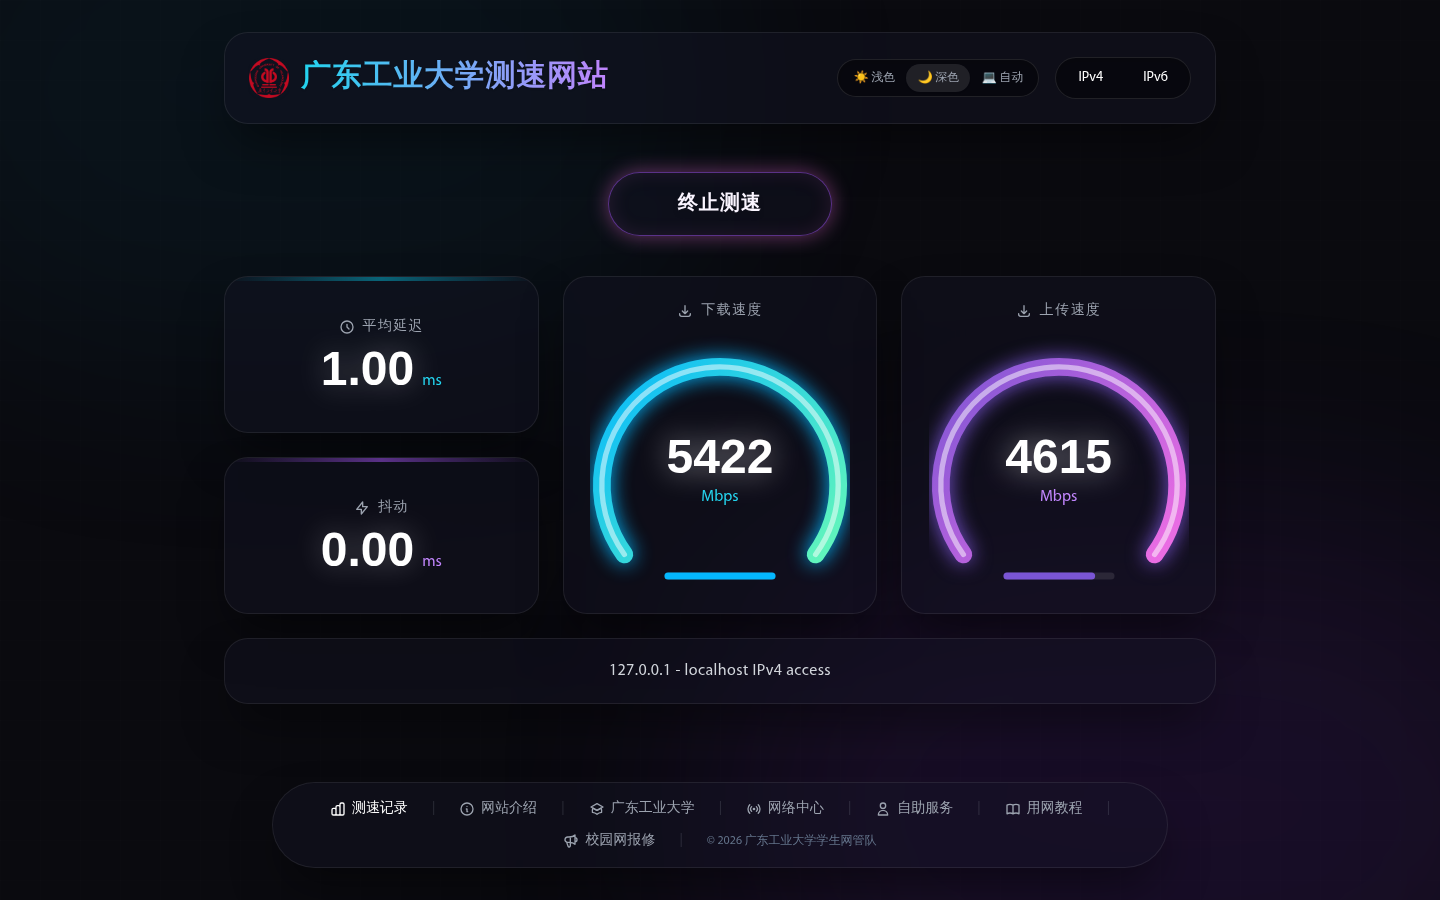
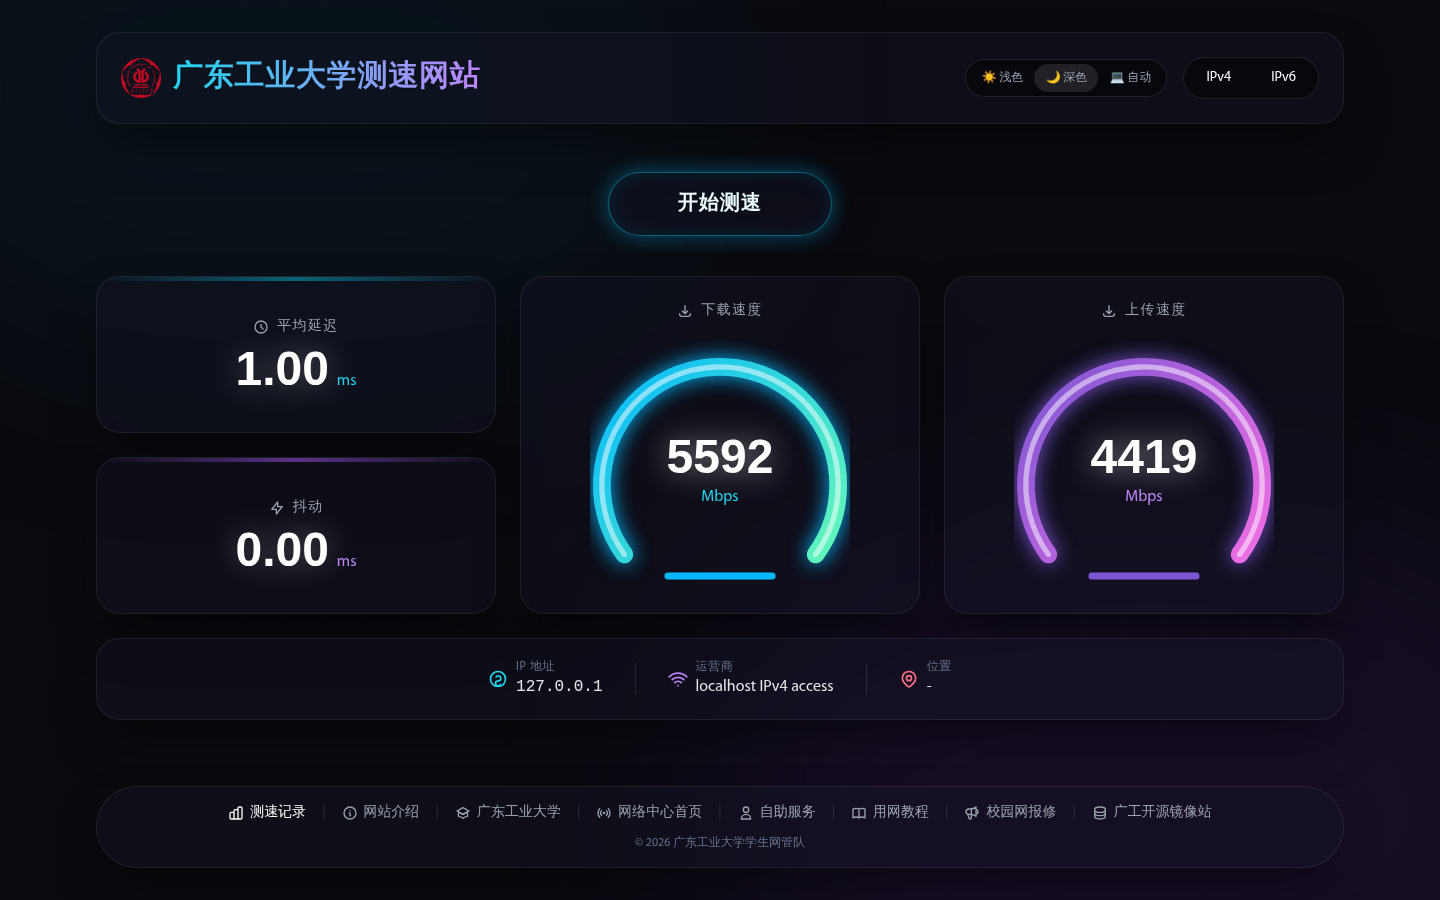
重做IP信息卡片：分段展示IP/运营商/位置
- 卡片从单行文本改为三段式布局：IP地址、运营商、位置
- 每段配SVG图标+标签+值，用竖线分隔
- 隐藏ip元素保留完整字符串供上报逻辑使用
- 更新暗色模式截图

diff --git a/index.html b/index.html
@@ -285,8 +285,31 @@
             </div>
 
             <!-- IP Info Island -->
-            <div class="md:col-span-12 glass-panel rounded-3xl p-5 flex justify-center items-center min-h-[60px]">
-                <span id="ip" class="text-slate-600 dark:text-gray-300 font-medium text-sm sm:text-base tracking-wide"></span>
+            <div class="md:col-span-12 glass-panel rounded-3xl p-5 flex flex-wrap justify-center items-center gap-x-8 gap-y-3 min-h-[60px]">
+                <span id="ip" class="hidden"></span>
+                <div class="flex items-center gap-2">
+                    <svg class="w-5 h-5 text-cyan-500 dark:text-cyan-400" fill="none" stroke="currentColor" viewBox="0 0 24 24"><path stroke-linecap="round" stroke-linejoin="round" stroke-width="2" d="M21 12a9 9 0 11-18 0 9 9 0 0118 0z"></path><path stroke-linecap="round" stroke-linejoin="round" stroke-width="2" d="M9.75 9.75a3 3 0 015.5 2.25c0 1.5-1.5 2.25-3 2.25s-3 .75-3 2.25a3 3 0 005.5 2.25"></path></svg>
+                    <div class="flex flex-col">
+                        <span class="text-xs text-slate-400 dark:text-slate-500 uppercase tracking-wider">IP 地址</span>
+                        <span id="ipAddr" class="text-slate-700 dark:text-gray-200 font-medium text-sm sm:text-base font-mono">-</span>
+                    </div>
+                </div>
+                <div class="hidden sm:block w-px h-8 bg-slate-200 dark:bg-white/10"></div>
+                <div class="flex items-center gap-2">
+                    <svg class="w-5 h-5 text-purple-500 dark:text-purple-400" fill="none" stroke="currentColor" viewBox="0 0 24 24"><path stroke-linecap="round" stroke-linejoin="round" stroke-width="2" d="M8.111 16.404a5.5 5.5 0 017.778 0M12 20h.01m-7.08-7.071c3.904-3.905 10.236-3.905 14.141 0M1.394 9.393c5.857-5.857 15.355-5.857 21.213 0"></path></svg>
+                    <div class="flex flex-col">
+                        <span class="text-xs text-slate-400 dark:text-slate-500 uppercase tracking-wider">运营商</span>
+                        <span id="ispName" class="text-slate-700 dark:text-gray-200 font-medium text-sm sm:text-base">-</span>
+                    </div>
+                </div>
+                <div class="hidden sm:block w-px h-8 bg-slate-200 dark:bg-white/10"></div>
+                <div class="flex items-center gap-2">
+                    <svg class="w-5 h-5 text-rose-500 dark:text-rose-400" fill="none" stroke="currentColor" viewBox="0 0 24 24"><path stroke-linecap="round" stroke-linejoin="round" stroke-width="2" d="M17.657 16.657L13.414 20.9a1.998 1.998 0 01-2.827 0l-4.244-4.243a8 8 0 1111.314 0z"></path><path stroke-linecap="round" stroke-linejoin="round" stroke-width="2" d="M15 11a3 3 0 11-6 0 3 3 0 016 0z"></path></svg>
+                    <div class="flex flex-col">
+                        <span class="text-xs text-slate-400 dark:text-slate-500 uppercase tracking-wider">位置</span>
+                        <span id="ipLocation" class="text-slate-700 dark:text-gray-200 font-medium text-sm sm:text-base">-</span>
+                    </div>
+                </div>
             </div>
         </div>
 
@@ -578,6 +601,10 @@
             var status = uiData.testState;
             
             document.getElementById("ip").textContent = uiData.clientIp;
+            var ipParts = String(uiData.clientIp).split(' - ');
+            document.getElementById("ipAddr").textContent = ipParts[0] || '-';
+            document.getElementById("ispName").textContent = ipParts[1] || '-';
+            document.getElementById("ipLocation").textContent = ipParts[2] || '-';
             
             var dlVal = (status == 1 && uiData.dlStatus == 0) ? "..." : format(uiData.dlStatus);
             document.getElementById("dlText").textContent = dlVal;
@@ -643,6 +670,9 @@
             document.getElementById("pingText").textContent = "0";
             document.getElementById("jitText").textContent = "0";
             document.getElementById("ip").textContent = "";
+            document.getElementById("ipAddr").textContent = "-";
+            document.getElementById("ispName").textContent = "-";
+            document.getElementById("ipLocation").textContent = "-";
         }
         
         setTimeout(function(){
